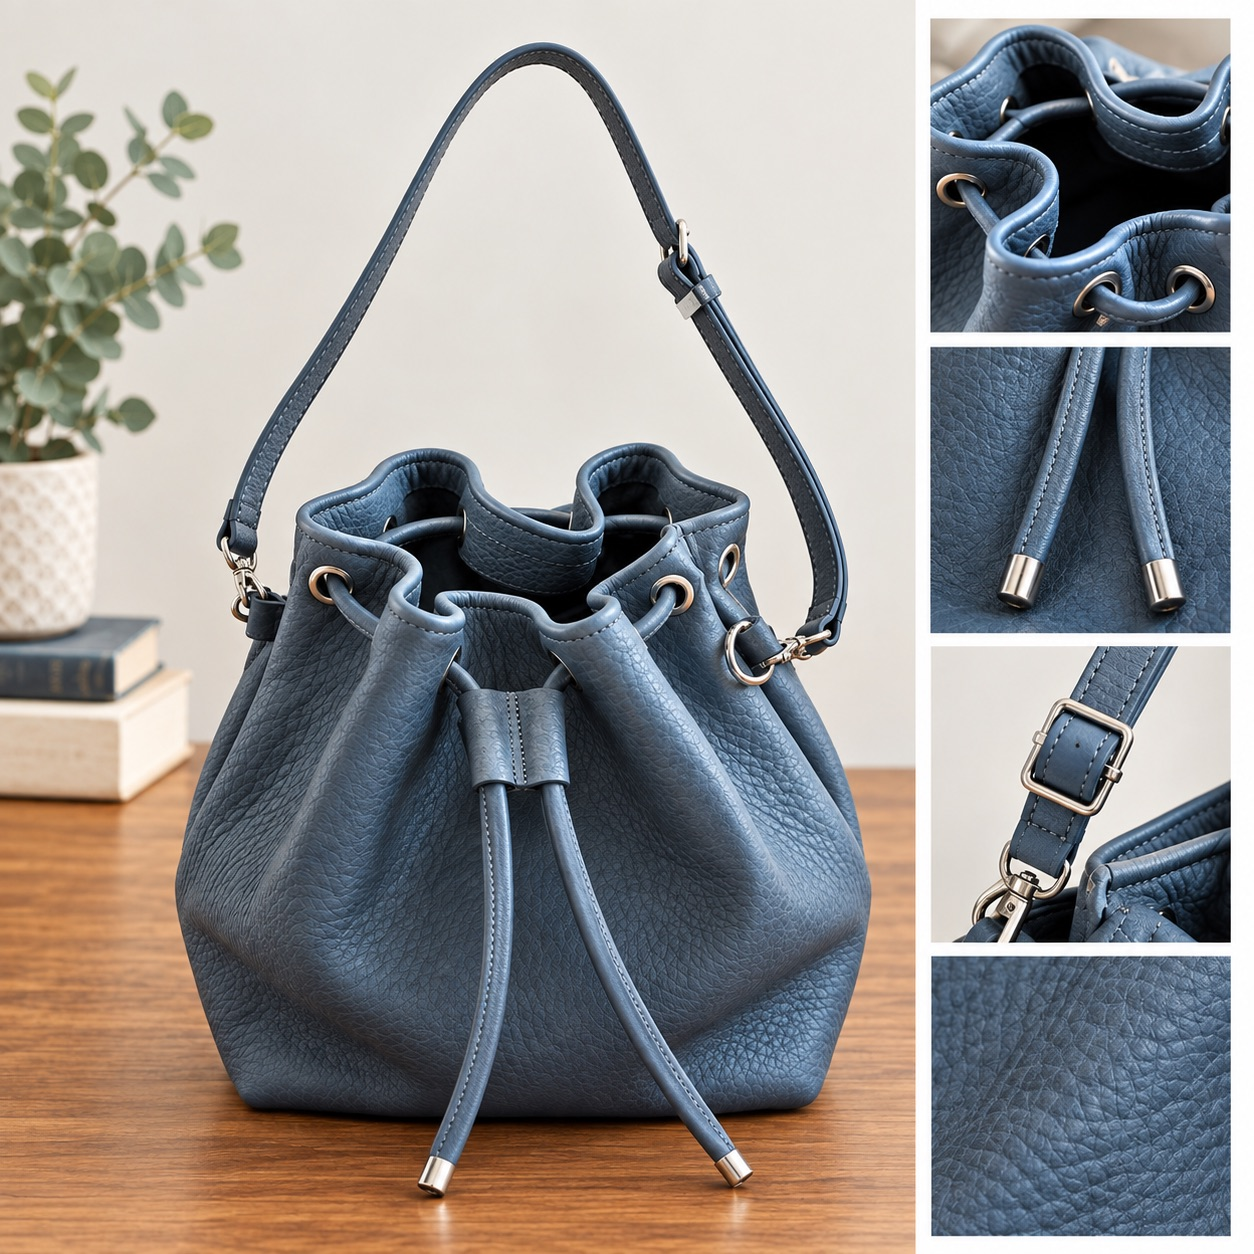
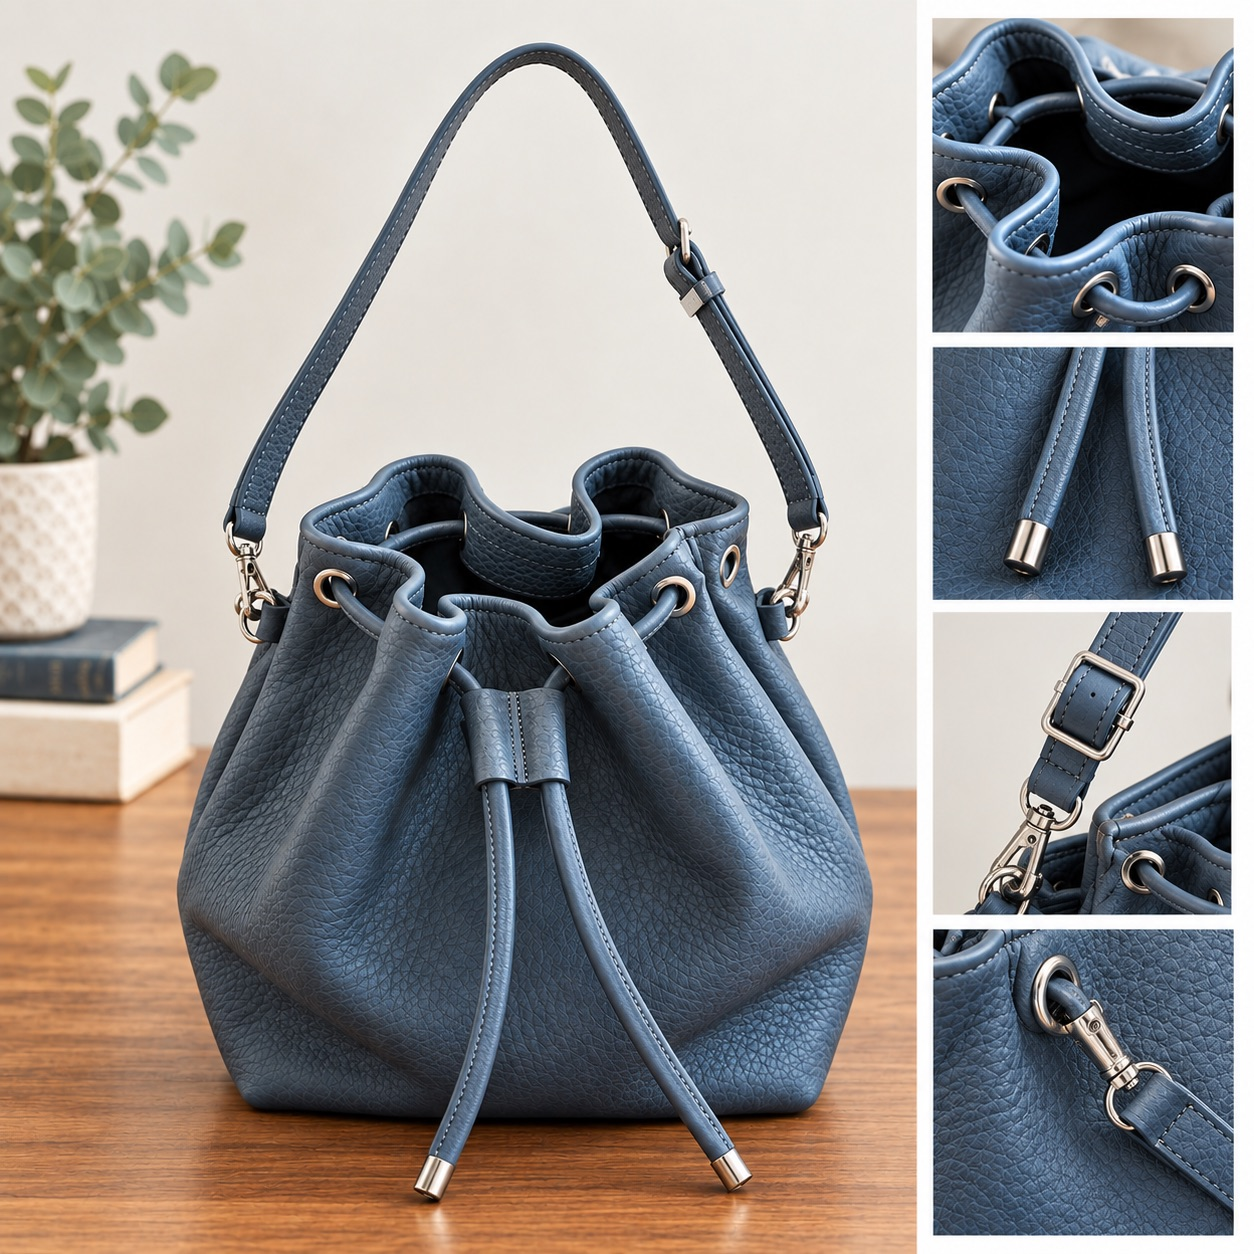
update bucket bag photo and alt text

diff --git a/Leatherwork/index.html b/Leatherwork/index.html
@@ -347,7 +347,7 @@
         <!-- ── PROJECT: Horween Dearborn Drawstring Bucket Bag ── -->
         <div class="project-card">
           <div class="photo-strip">
-            <img src="images/bags-bucket-dearborn-1.jpg" alt="Blue-grey drawstring bucket bag with detail views of the eyelets, drawcords, adjustable strap, and pebbled grain" loading="lazy">
+            <img src="images/bags-bucket-dearborn-1.jpg" alt="Blue-grey drawstring bucket bag with detail views of the eyelets, capped drawcords, adjustable strap, and swivel clip attachment" loading="lazy">
           </div>
           <div class="project-info">
             <h3>Drawstring Bucket Bag in Horween Dearborn Leather</h3>
